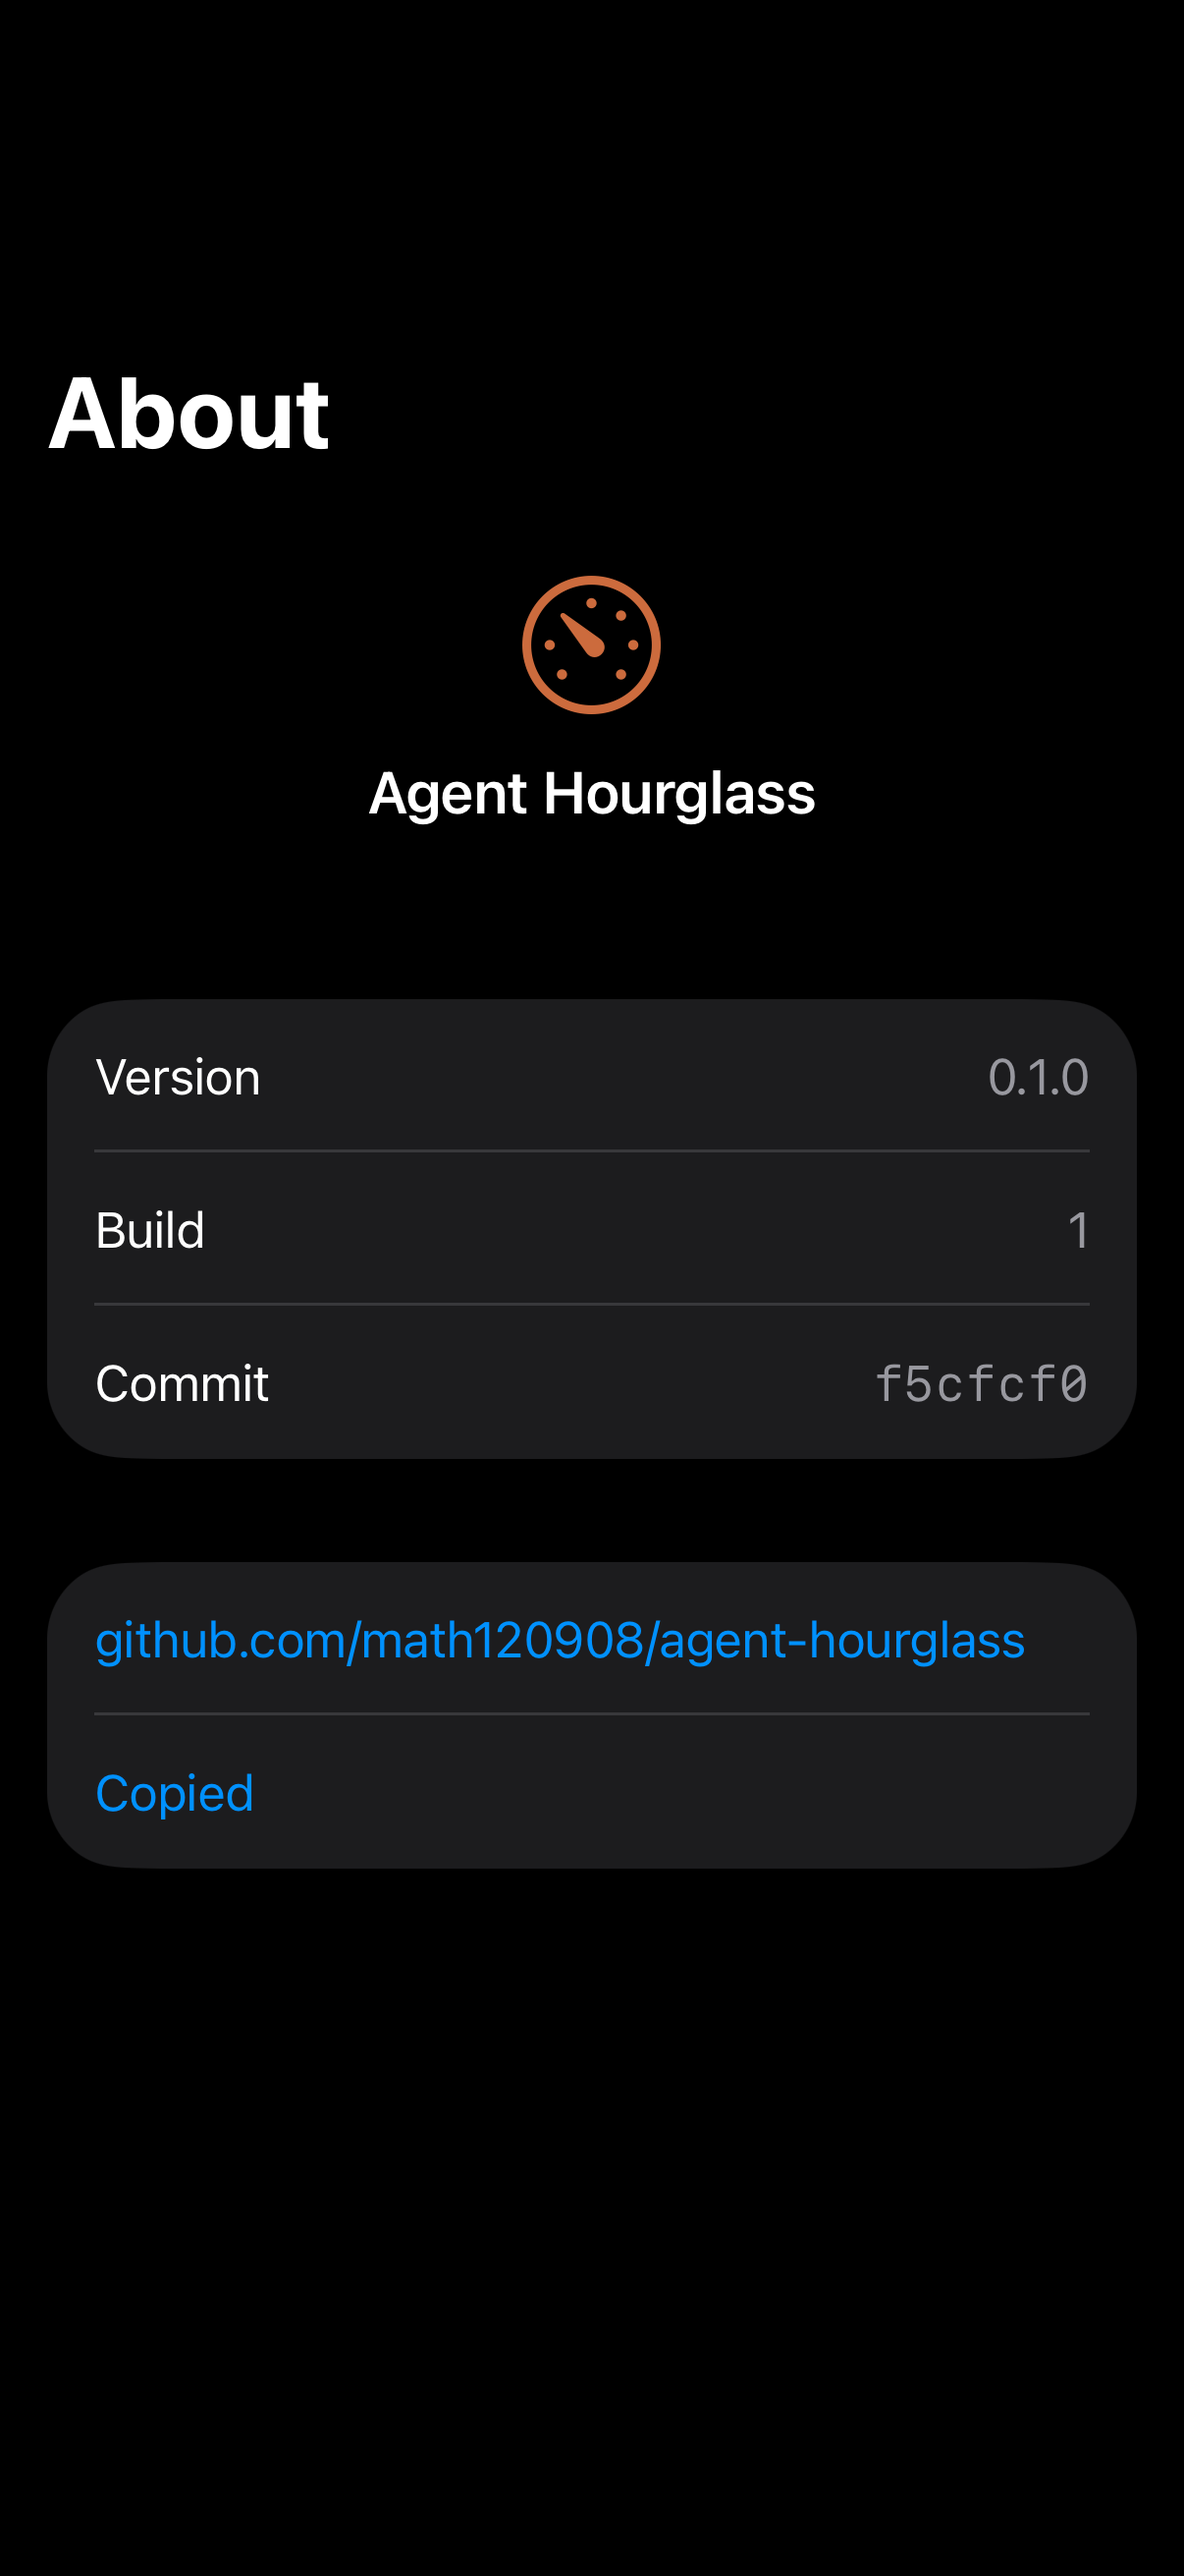
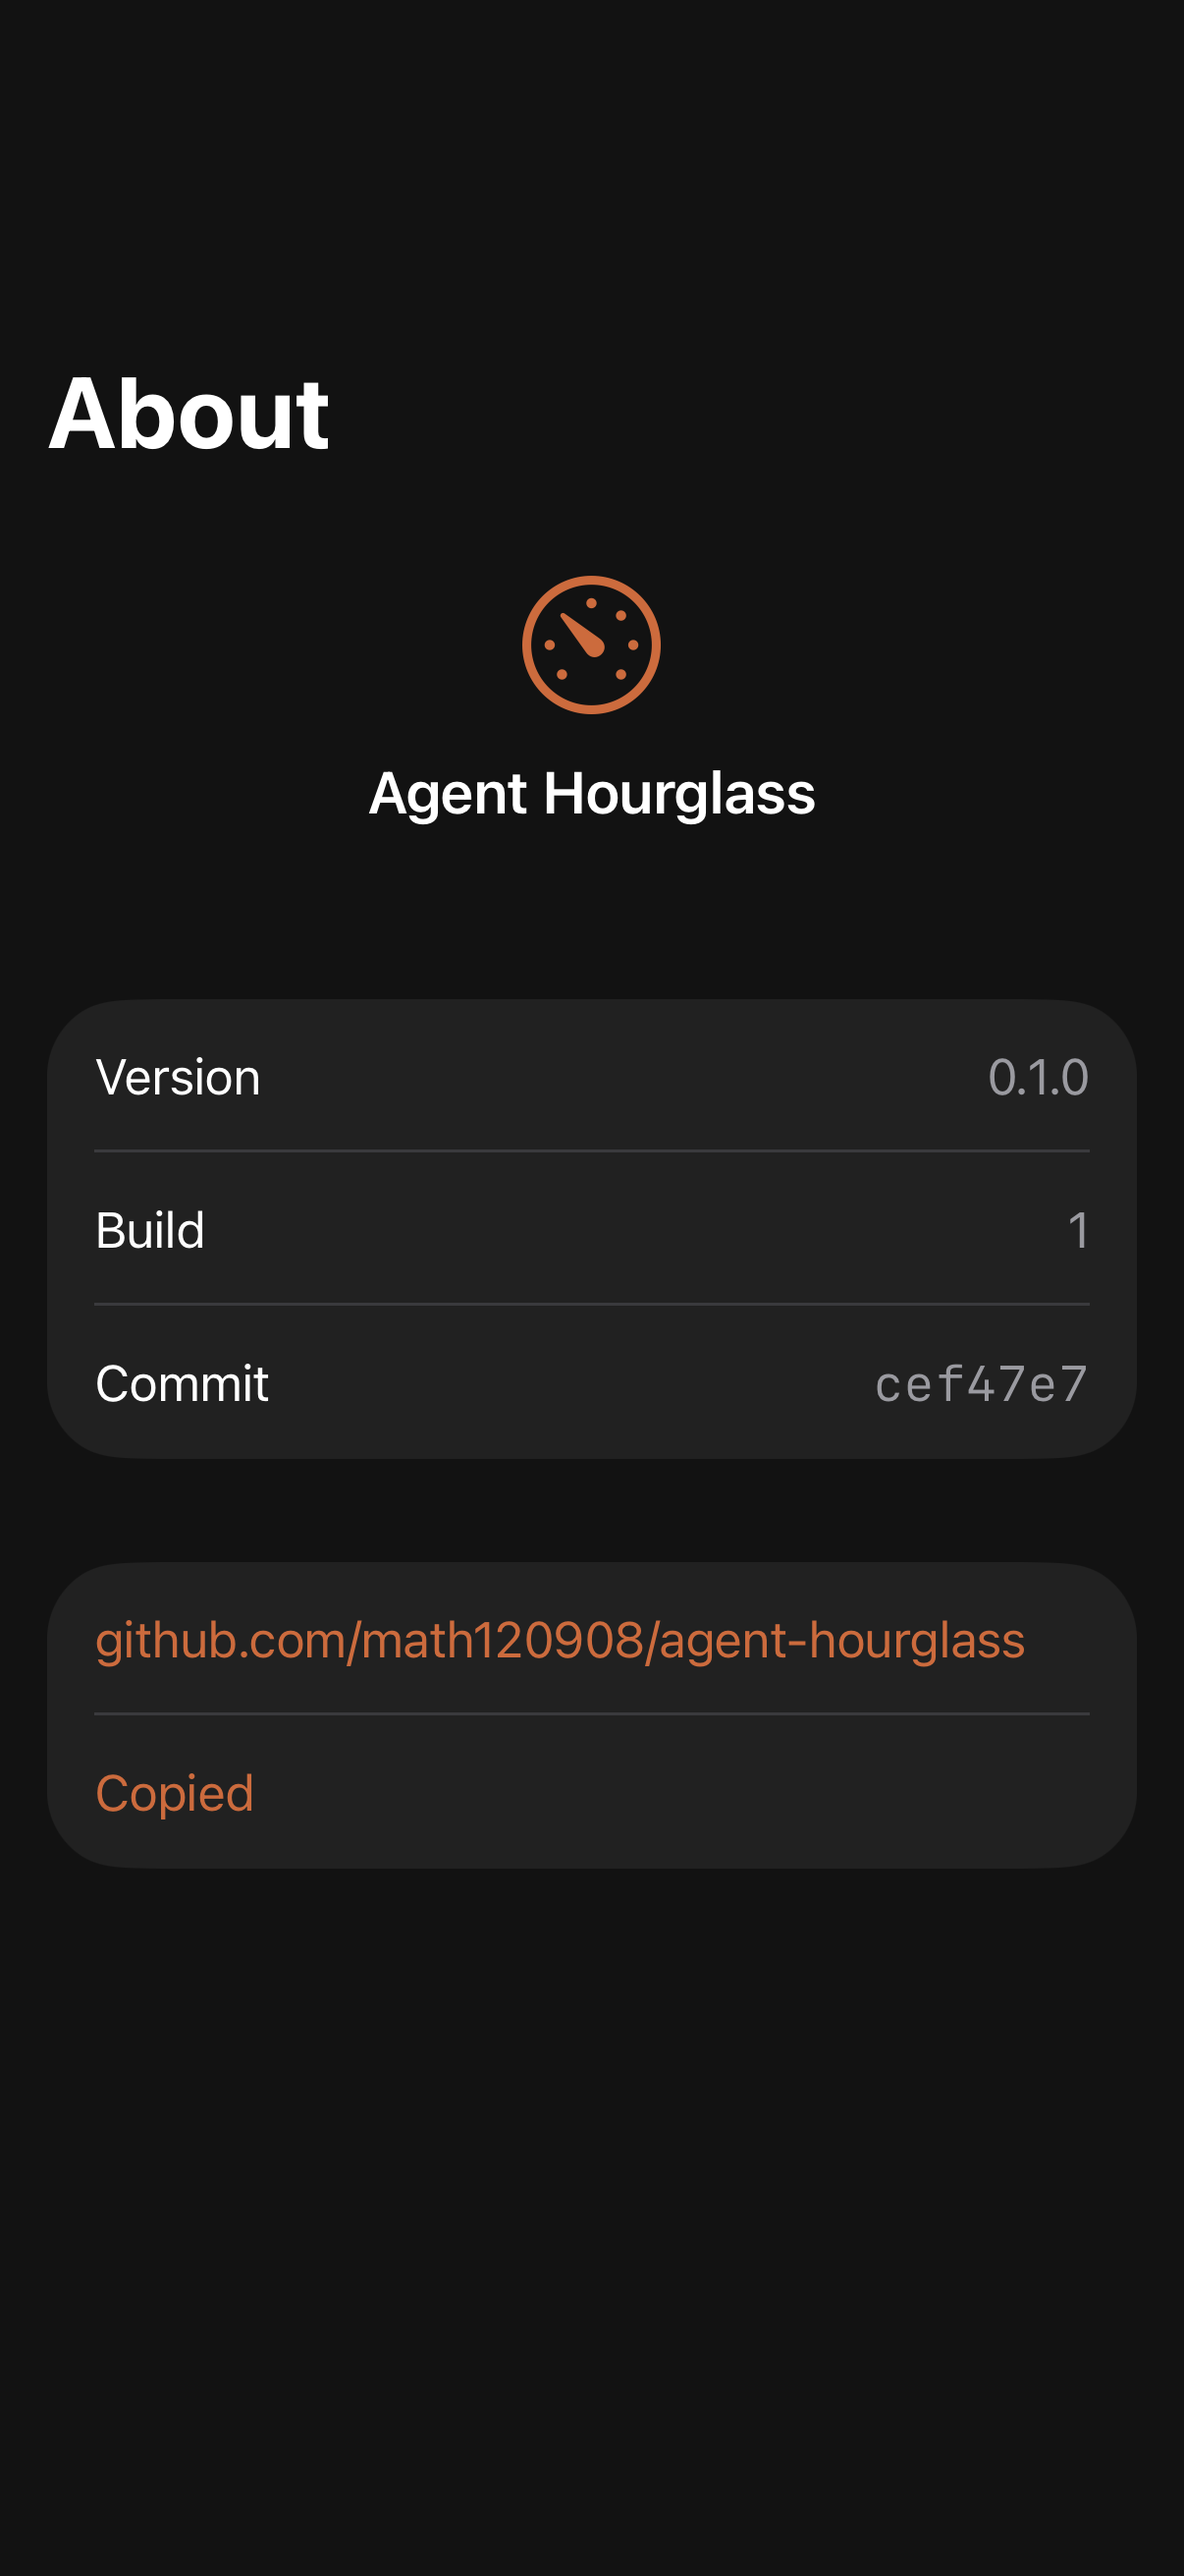
fix(ios): theme About for Instrument, reset Copied label

Changed region(s): [[0.092, 0.6178, 0.859, 0.6487], [0.7363, 0.5252, 0.9204, 0.5561], [0.092, 0.6796, 0.2148, 0.7105]]

diff --git a/iOS/App/Settings/AboutView.swift b/iOS/App/Settings/AboutView.swift
@@ -6,6 +6,7 @@ struct AboutView: View {
     static let repo = URL(string: "https://github.com/math120908/agent-hourglass")!
 
     private let diagnostics: () -> String
+    @Environment(\.appTheme) private var theme
     @State private var copied: Bool
 
     init(diagnostics: @escaping () -> String) {
@@ -31,24 +32,45 @@ struct AboutView: View {
                 .listRowBackground(Color.clear)
             }
             Section {
-                LabeledContent("Version", value: BuildInfo.version)
-                LabeledContent("Build", value: BuildInfo.build)
+                LabeledContent("Version", value: BuildInfo.version).listRowBackground(rowBackground)
+                LabeledContent("Build", value: BuildInfo.build).listRowBackground(rowBackground)
                 LabeledContent("Commit") {
                     Text(BuildInfo.commit)
                         .font(.body.monospaced())
                         .textSelection(.enabled)
                 }
+                .listRowBackground(rowBackground)
             }
             Section {
                 Link("github.com/math120908/agent-hourglass", destination: Self.repo)
+                    .listRowBackground(rowBackground)
                 Button(copied ? "Copied" : "Copy diagnostics", action: copy)
+                    .listRowBackground(rowBackground)
             }
         }
+        .scrollContentBackground(theme == .instrument ? .hidden : .automatic)
+        .background(theme == .instrument ? Self.instrumentBackground : Color.clear)
+        .tint(theme == .instrument ? GlassStyle.claude : Color.accentColor)
         .navigationTitle("About")
     }
+
+    private var rowBackground: Color? {
+        theme == .instrument ? Self.instrumentRow : nil
+    }
+
+    private static let instrumentBackground = Color(uiColor: UIColor { t in
+        t.userInterfaceStyle == .dark ? UIColor(white: 0.07, alpha: 1) : UIColor(red: 0.95, green: 0.94, blue: 0.91, alpha: 1)
+    })
+    private static let instrumentRow = Color(uiColor: UIColor { t in
+        t.userInterfaceStyle == .dark ? UIColor(white: 0.13, alpha: 1) : UIColor(red: 0.99, green: 0.98, blue: 0.96, alpha: 1)
+    })
 
     private func copy() {
         UIPasteboard.general.string = diagnostics()
         copied = true
+        Task { @MainActor in
+            try? await Task.sleep(for: .seconds(2))
+            copied = false
+        }
     }
 }
